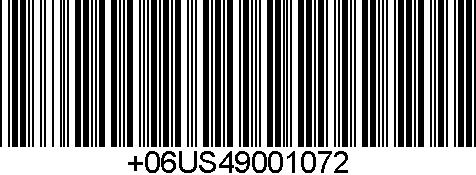
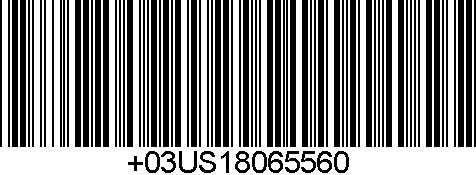
arreglado generador de tickets, implementado visor de pdf nativo en el sistema

diff --git a/src/controller/AddVehicleController.java b/src/controller/AddVehicleController.java
@@ -1,6 +1,7 @@
 package controller;
 
 import Entity.Entries;
+import Entity.InfoParkway;
 import Entity.VehicleType;
 import java.util.Calendar;
 import java.util.Date;
@@ -115,7 +116,7 @@ public class AddVehicleController {
         m.setEmployee(SystemSession.getSessionEmployee());
         m.setEntryDate(MainController.getSystemTime());
         m.setPlate(plate);
-        m.setTicket(123);
+        m.setTicket(generateTicket());
         m.setTicketCodification(generateTicketCodification());
         m.setVehicleType(getVehicleTypeSelected(vehicleType));
         m.setComentary(coment);
@@ -130,7 +131,10 @@ public class AddVehicleController {
             //actualizar el panel con la nueva entrada automaticamente
             DefaultTableModel entriesModel=TotalSearchOfEntries();
             MainController.mainView.setEntriesTableModel(entriesModel);
-            MainController.generateBarCode(m.getTicketCodification());   
+            MainController.generateBarCode(m.getTicketCodification()); 
+            InfoParkway aux=MainController.infoJpaController.findInfoParkway(idParkway);
+            aux.setTicketCount(m.getTicket());
+            MainController.infoJpaController.edit(aux,idParkway);
         } else {
             MainController.adminView.showMessage("Error", "El tipo de vehiculo seleccionado no tiene tarifas. Por favor cree una nueva tarifa", 0);
         }
@@ -140,11 +144,25 @@ public class AddVehicleController {
     
     public static String generateTicketCodification(){
         Random rnd = new Random();
-        String code="+"+String.valueOf(Calendar.getInstance().getTime().getMonth())+
-                String.valueOf(Calendar.getInstance().getTime().getDay());
+        String code="+"+String.valueOf(MainController.getSystemTime().getMonth())+
+                String.valueOf(MainController.getSystemTime().getDay());
         code= code+SystemSession.getSessionEmployee().getUser().toString().substring(0, 2).toUpperCase();
         code= code+Calendar.getInstance().getTimeInMillis()%(rnd.nextInt(99999999)+1);
         return code;
+    }
+    
+    public static String generateTicket(){
+        Long lng=new Long(1);
+        String ticket=MainController.infoJpaController.findInfoParkway(lng).getTicketCount();
+        if(!ticket.startsWith(String.valueOf(MainController.getSystemTime().getDay()))){
+            return String.valueOf(MainController.getSystemTime().getDay())+"1";
+        }
+        else{
+            int aux=Integer.parseInt(ticket.substring(1,ticket.length()));
+            aux++;
+            return String.valueOf(MainController.getSystemTime().getDay())+
+                    String.valueOf(aux);   
+        }
     }
     
     
@@ -201,4 +219,5 @@ public class AddVehicleController {
     private static List<Entries> AllEntries=null;
     private static VehicleType vehicleTypeIsSelected = null;
     private static List<VehicleType> AllVehicleTypes = null;
+    private static final long idParkway = 1;
 }

diff --git a/src/eParking/eParking.java b/src/eParking/eParking.java
@@ -33,20 +33,20 @@ public class eParking {
             }
         new MainController() ;
 //        //////////////////////////Inicializar Tablas////////////////////////
-//        try {
-//            Employee employee = MainController.employeeJpaController.findEmployeeByUser("user");
-//            VehicleType vehicle = MainController.vehicleTypeJpaController.findVehicleType(Long.valueOf(1));
-//            BandsRate bandsRate = MainController.bandsRateJpaController.findBandsRate(Long.valueOf(1));
-//            //FactureTurn factureTurn = MainController.FactureTurnJpaController.
-//            if (employee == null && vehicle == null && bandsRate == null) {
-//
-//                new InitializeController();
-//
-//            }
-//
-//        } catch (Exception e) {
-//            System.out.println("Pues ocurrio un error creando las condenadas tablas iniciales" + e.getMessage());
-//        }
+        try {
+            Employee employee = MainController.employeeJpaController.findEmployeeByUser("user");
+            VehicleType vehicle = MainController.vehicleTypeJpaController.findVehicleType(Long.valueOf(1));
+            BandsRate bandsRate = MainController.bandsRateJpaController.findBandsRate(Long.valueOf(1));
+            //FactureTurn factureTurn = MainController.FactureTurnJpaController.
+            if (employee == null && vehicle == null && bandsRate == null) {
+
+                new InitializeController();
+
+            }
+
+        } catch (Exception e) {
+            System.out.println("Pues ocurrio un error creando las condenadas tablas iniciales" + e.getMessage());
+        }
 
         //////////////////////////Inicializar Tablas///////////////////////////////
         

diff --git a/src/Entity/FactureTurn.java b/src/Entity/FactureTurn.java
@@ -41,7 +41,7 @@ public class FactureTurn implements Serializable {
     @Column(name="Plate",nullable=false)
     private String plate; 
     @Column(name="Ticket",nullable=false)
-    private long ticket; 
+    private String ticket; 
     @Temporal(TemporalType.TIMESTAMP)
     @Column(name="EntryDate",nullable=false)
     private Date entryDate;
@@ -103,11 +103,11 @@ public class FactureTurn implements Serializable {
         this.plate = plate;
     }
 
-    public long getTicket() {
+    public String getTicket() {
         return ticket;
     }
 
-    public void setTicket(long ticket) {
+    public void setTicket(String ticket) {
         this.ticket = ticket;
     }
 

diff --git a/src/Entity/Entries.java b/src/Entity/Entries.java
@@ -27,7 +27,7 @@ public class Entries implements Serializable {
     @GeneratedValue(strategy = GenerationType.IDENTITY)
     private long id;
     @Column(name="Ticket",nullable=false)
-    private long ticket;
+    private String ticket;
     @Temporal(TemporalType.TIMESTAMP)
     @Column(name="EntryDate",nullable=false)
     private Date entryDate;
@@ -85,11 +85,11 @@ public class Entries implements Serializable {
         this.plate = plate;
     }
 
-    public long getTicket() {
+    public String getTicket() {
         return ticket;
     }
 
-    public void setTicket(long ticket) {
+    public void setTicket(String ticket) {
         this.ticket = ticket;
     }
 

diff --git a/src/Entity/Exits.java b/src/Entity/Exits.java
@@ -33,7 +33,7 @@ public class Exits implements Serializable {
     @Column(name="Plate",nullable=false)
     private String plate; 
     @Column(name="Ticket",nullable=false)
-    private long ticket; 
+    private String ticket; 
     @Temporal(TemporalType.TIMESTAMP)
     @Column(name="EntryDate",nullable=false)
     private Date entryDate;
@@ -112,11 +112,11 @@ public class Exits implements Serializable {
         this.subtotal = subtotal;
     }
 
-    public long getTicket() {
+    public String getTicket() {
         return ticket;
     }
 
-    public void setTicket(long ticket) {
+    public void setTicket(String ticket) {
         this.ticket = ticket;
     }
 

diff --git a/src/Entity/Facture.java b/src/Entity/Facture.java
@@ -41,7 +41,7 @@ public class Facture implements Serializable {
     @Column(name="Plate",nullable=false)
     private String plate; 
     @Column(name="Ticket",nullable=false)
-    private long ticket; 
+    private String ticket; 
     @Temporal(TemporalType.TIMESTAMP)
     @Column(name="EntryDate",nullable=false)
     private Date entryDate;
@@ -95,11 +95,11 @@ public class Facture implements Serializable {
         this.plate = plate;
     }
 
-    public long getTicket() {
+    public String getTicket() {
         return ticket;
     }
 
-    public void setTicket(long ticket) {
+    public void setTicket(String ticket) {
         this.ticket = ticket;
     }
 

diff --git a/src/controller/InitializeController.java b/src/controller/InitializeController.java
@@ -19,6 +19,7 @@ import Entity.VehicleType;
 import Entity.Exits;
 import Entity.InfoParkway;
 import java.sql.Date;
+import java.util.Calendar;
 
 
 public class InitializeController {
@@ -131,6 +132,9 @@ public class InitializeController {
         infop.setCapacityStatus(0);
         infop.setIVAPercent(0.02);
         infop.setRountTo(20);
+        Long yesterday=Calendar.getInstance().getTimeInMillis()-86400000;
+        Date date=new Date(yesterday);
+        infop.setTicketCount(date.getDay() +"1");
         infopJpaController.create(infop);
 
         }

diff --git a/src/controller/Administration/ExecuteReport.java b/src/controller/Administration/ExecuteReport.java
@@ -55,6 +55,9 @@ public class ExecuteReport {
                     +".pdf";
             //Creación del PDF
             JasperExportManager.exportReportToPdfFile(print, destFileNamePdf);
+            JasperViewer jviewer=new JasperViewer(print,false);
+            jviewer.setTitle(destFileNamePdf);
+            jviewer.setVisible(true);
             javax.swing.JOptionPane.showMessageDialog(null, "Se ha creado el reporte");
         }catch(Exception e){
             javax.swing.JOptionPane.showMessageDialog(null, e);

diff --git a/src/DAO/InfoParkwayJpaController.java b/src/DAO/InfoParkwayJpaController.java
@@ -80,6 +80,7 @@ public class InfoParkwayJpaController implements Serializable {
             newInfoPark.setTelephone(infoParkway.getTelephone());
             newInfoPark.setMaxCapacity(infoParkway.getMaxCapacity());
             newInfoPark.setIVAPercent(infoParkway.getIVAPercent());
+            newInfoPark.setTicketCount(infoParkway.getTicketCount());
             infoParkway = em.merge(newInfoPark);
             em.getTransaction().commit();
         } catch (Exception ex) {

diff --git a/src/Entity/InfoParkway.java b/src/Entity/InfoParkway.java
@@ -39,8 +39,17 @@ public class InfoParkway implements Serializable {
     private double capacityStatus;
     @Column (name="RoundTo")
     private int rountTo;
-    
+    @Column (name="TicketCount")
+    private String ticketCount;
 
+    public String getTicketCount() {
+        return ticketCount;
+    }
+
+    public void setTicketCount(String ticketCount) {
+        this.ticketCount = ticketCount;
+    }
+    
     public int getRountTo() {
         return rountTo;
     }
